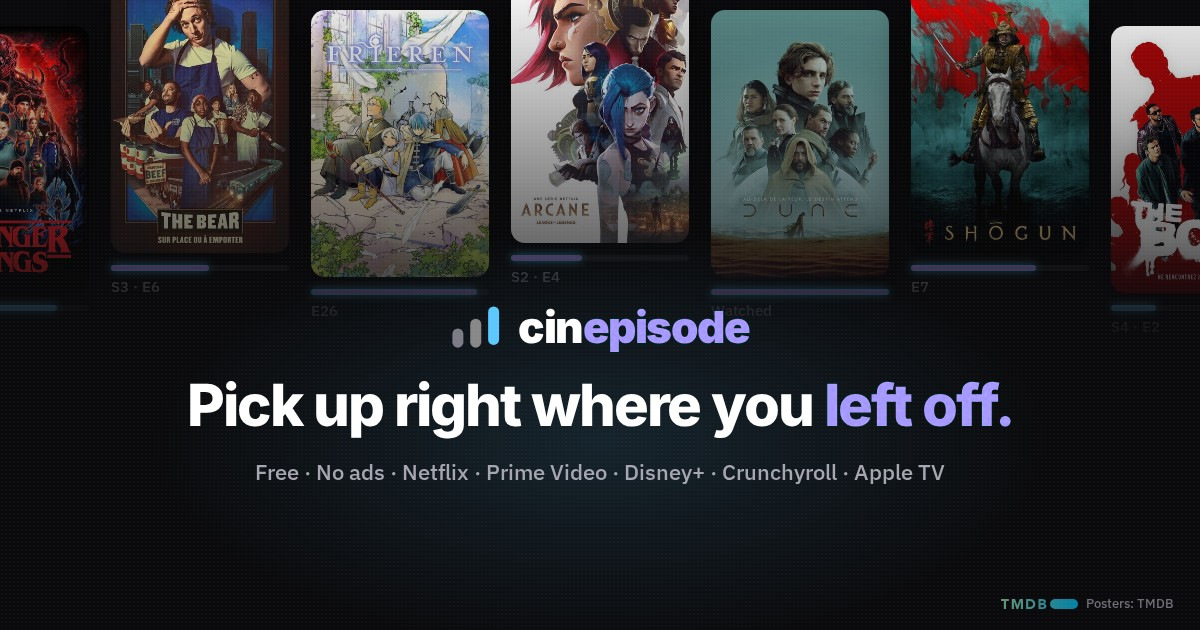
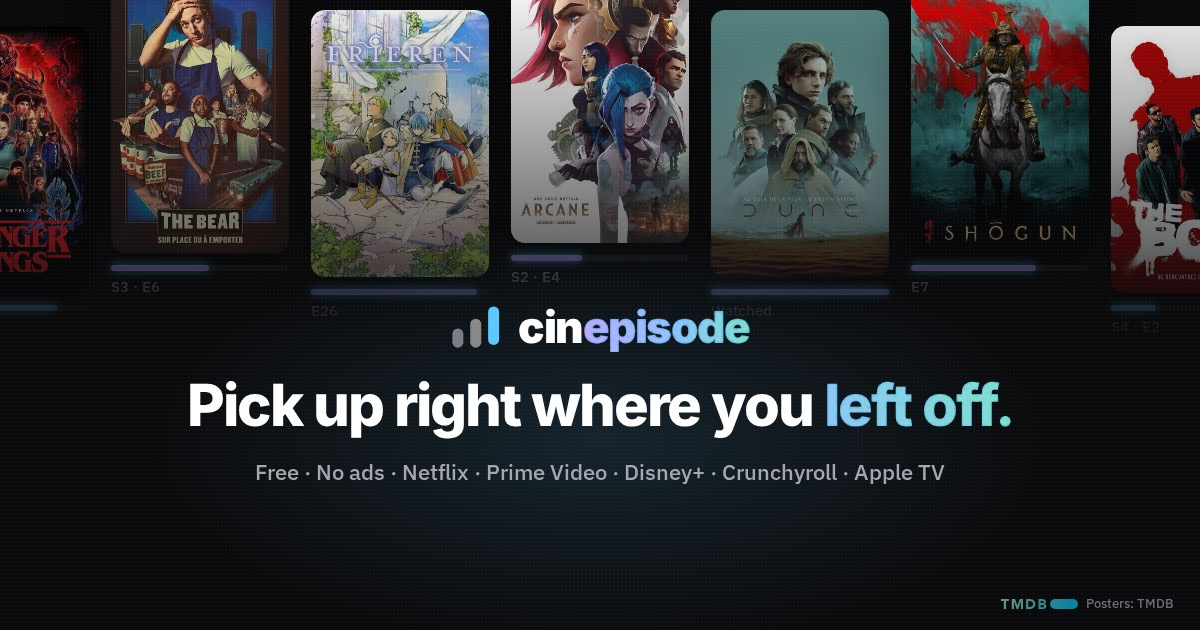
DA : dégradé P3 en couleur principale, accent-flat en 3 teintes très présent
- brand.config.json : accentMid/accentEnd (+ thème clair), hiérarchie principale / accent / secondary
- --accent-grad généré (app, extension, pages légales, pages serveur) ; logo « episode », mots d'accent de la landing et surtitres en dégradé lavande → ciel → menthe
- états actifs (segments, pastilles du héros, sélecteurs) sur --p3-grad
- image d'aperçu de lien : « episode » et fin du titre en dégradé accent-flat

Claude-Session: https://claude.ai/code/session_01F546xzsADfis5eoSZZMgFr

Changed region(s): [[0.6783, 0.6032, 0.8633, 0.6937], [0.4933, 0.4825, 0.6475, 0.5429]]

diff --git a/css/app.css b/css/app.css
@@ -16,7 +16,7 @@
      (--p3-grad) et au mot « episode » du logo (--accent-flat, teinte claire de la même famille —
      les arrêts foncés du dégradé tomberaient sous 4.5:1 comme texte plat sur de l'OLED pur) */
   /* Couleurs de marque : générées depuis brand.config.json (node scripts/build-brand.mjs) */
-  /*brand:css*/--bg:#000000;--accent:#b9aeff;--accent-rgb:185,174,255;--accent-hover:#cdc5ff;--accent-flat:var(--accent);--on-accent:#06070a;--accent2:#5cc8ff;--accent2-rgb:92,200,255;--accent2-hover:#7ad4ff;--grad-rgb:47,143,209;--p3-grad:linear-gradient(135deg,#5b4fe0,#2f8fd1 55%,#1fb8a3);--accent-dim:rgba(var(--accent-rgb),0.12);--accent-dim2:rgba(var(--accent-rgb),0.35);/*/brand:css*/
+  /*brand:css*/--bg:#000000;--accent:#b9aeff;--accent-rgb:185,174,255;--accent-hover:#cdc5ff;--accent-flat:var(--accent);--on-accent:#06070a;--accent-mid:#8fc4ff;--accent-end:#7fe0cf;--accent-grad:linear-gradient(100deg,#b9aeff,#8fc4ff 55%,#7fe0cf);--accent2:#5cc8ff;--accent2-rgb:92,200,255;--accent2-hover:#7ad4ff;--grad-rgb:47,143,209;--p3-grad:linear-gradient(135deg,#5b4fe0,#2f8fd1 55%,#1fb8a3);--accent-dim:rgba(var(--accent-rgb),0.12);--accent-dim2:rgba(var(--accent-rgb),0.35);/*/brand:css*/
   --red:#e84b4b;--green:#4be87a;
   /* TRANSITIONS variées (#5) */
   --tr:0.16s ease;--tr-fast:0.08s ease;--tr-slow:0.28s cubic-bezier(.4,0,.2,1);--spring:cubic-bezier(.34,1.56,.64,1);
@@ -45,7 +45,7 @@
   --bg:#f5f6f8;--bg2:#ffffff;--bg3:#eef0f3;--bg4:#e3e6ec;--bg5:#d6dae1;
   --ink-rgb:20,21,26;
   --text:#14151a;--text2:#63656e;--text3:#6e6e78;
-  /*brand:css-light*/--accent:#4a3fd1;--accent-rgb:74,63,209;--accent-hover:#3b31b5;--accent-flat:var(--accent);--on-accent:#ffffff;--accent2:#1d79c9;--accent2-rgb:29,121,201;--accent2-hover:#1868ad;/*/brand:css-light*/
+  /*brand:css-light*/--accent:#4a3fd1;--accent-rgb:74,63,209;--accent-hover:#3b31b5;--accent-flat:var(--accent);--on-accent:#ffffff;--accent-mid:#1d79c9;--accent-end:#0e8f80;--accent-grad:linear-gradient(100deg,#4a3fd1,#1d79c9 55%,#0e8f80);--accent2:#1d79c9;--accent2-rgb:29,121,201;--accent2-hover:#1868ad;/*/brand:css-light*/
   --red:#d32f2f;--green:#2e7d32;
   --glass-panel-bg:rgba(255,255,255,.78);--glass-backdrop-bg:rgba(255,255,255,.69);
   --p3-glass:rgba(255,255,255,.72);
@@ -66,11 +66,9 @@ body{background:var(--bg);color:var(--text);font-family:'IBM Plex Sans',sans-ser
 .hdr-left{display:flex;align-items:center;gap:20px;justify-self:start;min-width:0}
 .hdr-right{display:flex;align-items:center;justify-self:end;gap:10px}
 .logo{font-family:'Inter',sans-serif;font-size:22px;font-weight:900;letter-spacing:-.5px;color:var(--text);white-space:nowrap;display:flex;align-items:center;gap:8px}
-.logo em{color:var(--accent-flat);font-style:normal;animation:logoHueDrift 18s ease-in-out infinite alternate}
-@keyframes logoHueDrift{0%{color:#b9aeff}50%{color:#8fc4ff}100%{color:#7fe0cf}}
+.logo em{font-style:normal;background:var(--accent-grad);background-size:200% 100%;-webkit-background-clip:text;background-clip:text;color:transparent;-webkit-text-fill-color:transparent;animation:logoGradDrift 14s ease-in-out infinite alternate}
+@keyframes logoGradDrift{from{background-position:0% 0}to{background-position:100% 0}}
 @media (prefers-reduced-motion:reduce){.logo em{animation:none}}
-/* Thème clair : la dérive de teinte part d'un lavande pâle illisible sur fond clair — on garde l'accent du thème */
-:root[data-theme="light"] .logo em{animation:none;color:var(--accent-flat)}
 .logo-mark{width:22px;height:22px;flex:none}
 .hstats{display:flex;margin-left:auto;align-items:center}
 .pill{font-size:12px;color:var(--text2);background:var(--bg3);border:1px solid var(--border);padding:3px 10px;border-radius:20px}
@@ -794,7 +792,7 @@ a.gd-link{text-decoration:none;display:inline-flex;align-items:center}
 .btn-trailer svg{width:13px;height:13px}.btn-trailer:hover{background:rgba(255,80,80,.25)}
 .s-sel{display:flex;gap:5px;flex-wrap:wrap;margin-bottom:16px}
 .s-btn{font-size:11px;padding:5px 12px;border-radius:7px;background:var(--bg3);border:1px solid var(--border);color:var(--text2);cursor:pointer;transition:var(--tr);font-family:'IBM Plex Mono',monospace}
-.s-btn:hover{color:var(--text);border-color:var(--border2)}.s-btn.on{background:var(--accent);color:#000;border-color:var(--accent);font-weight:600}
+.s-btn:hover{color:var(--text);border-color:var(--border2)}.s-btn.on{background:var(--p3-grad);color:#fff;border-color:transparent;font-weight:600}
 .plex-nep{background:var(--accent-dim);border:1px solid var(--accent-dim2);border-radius:8px;padding:8px 12px;font-size:12px;color:var(--text);margin-bottom:14px;display:none}
 .plex-nep.on{display:block}.plex-nep b{color:var(--accent)}
 .plex-overview{font-size:13px;color:var(--text2);line-height:1.7;margin-bottom:18px}
@@ -1008,7 +1006,7 @@ body.glow-off .card::before,body.glow-off .ec-card::before,body.glow-off .dr-car
 .hero-dots{position:absolute;right:48px;bottom:34px;z-index:2;display:flex;gap:6px}
 .hero-dot{width:7px;height:7px;border-radius:4px;border:none;background:rgba(var(--ink-rgb),.3);cursor:pointer;padding:0;transition:width var(--tr-slow),background var(--tr-slow)}
 .hero-dot:hover{background:rgba(var(--ink-rgb),.55)}
-.hero-dot.on{width:20px;background:var(--accent)}
+.hero-dot.on{width:20px;background:var(--p3-grad)}
 @media (max-width:768px){.hero-dots{right:20px;bottom:20px}}
 .hero-btn{padding:12px 20px;border-radius:14px;font-size:13px;font-weight:700;border:none;cursor:pointer;color:var(--text);font-family:'IBM Plex Sans',sans-serif;display:inline-flex;align-items:center;gap:7px;transition:var(--tr-slow)}
 .hero-btn svg{width:14px;height:14px}
@@ -1815,7 +1813,7 @@ html.pair-open #toastWrap{display:none}
 .p3-pop{position:absolute;top:52px;right:0;width:320px;z-index:300;padding:10px;border-radius:20px;background:rgba(var(--surface-rgb),.92);border:1px solid rgba(var(--ink-rgb),.1);backdrop-filter:blur(30px);-webkit-backdrop-filter:blur(30px);box-shadow:0 30px 80px rgba(0,0,0,.6);animation:p3Pop .35s var(--p3-spring)}
 .p3-pop[hidden]{display:none}@keyframes p3Pop{from{opacity:0;transform:translateY(-8px) scale(.97)}}
 .p3-pop-h{display:flex;align-items:center;justify-content:space-between;gap:8px;padding:6px 8px 10px}
-.p3-pop-h>span{font:700 12px 'Inter',sans-serif;letter-spacing:.1em;text-transform:uppercase;color:var(--accent)}
+.p3-pop-h>span{font:700 12px 'Inter',sans-serif;letter-spacing:.1em;text-transform:uppercase;background:var(--accent-grad);background-size:200% 100%;-webkit-background-clip:text;background-clip:text;color:transparent;-webkit-text-fill-color:transparent}
 .p3-pop-readall{font:650 11.5px 'Inter',sans-serif;color:var(--text2);background:none;border:0;cursor:pointer;padding:3px 6px;border-radius:7px;transition:color .2s,background .2s;white-space:nowrap}
 .p3-pop-readall:hover{color:var(--text);background:rgba(var(--ink-rgb),.07)}
 .p3-pop-r{display:flex;align-items:center;gap:2px;width:100%}
@@ -2395,7 +2393,7 @@ button.fr-row:hover{background:rgba(var(--ink-rgb),.08);transform:translateX(2px
 .wt-filters{display:grid;gap:8px;margin:0 0 4px}
 .wt-seg{display:flex;gap:4px;padding:4px;border-radius:999px;background:rgba(var(--ink-rgb),.05)}
 .wt-seg button{flex:1;padding:8px 6px;border:0;border-radius:999px;background:transparent;color:rgba(var(--ink-rgb),.7);font:600 13px 'Inter',sans-serif;cursor:pointer;transition:background .2s,color .2s}
-.wt-seg button:hover{color:var(--text)}.wt-seg button.on{background:var(--accent);color:var(--on-accent)}
+.wt-seg button:hover{color:var(--text)}.wt-seg button.on{background:var(--p3-grad);color:#fff}
 .wt-count{margin:2px 0 12px;font-family:'IBM Plex Mono',monospace;font-size:12px}
 .wt-stage{position:relative;height:420px;display:grid;place-items:center}
 .wt-under{position:absolute;width:250px;height:380px;border-radius:20px;background:rgba(var(--ink-rgb),.05);transform:rotate(-5deg) translateX(-14px)}

diff --git a/extension/popup.css b/extension/popup.css
@@ -10,7 +10,7 @@
 @font-face{font-family:'IBM Plex Mono';font-style:normal;font-display:swap;font-weight:400;src:url(/fonts/ibm-plex-mono-latin-400-normal.woff2) format('woff2')}
 @font-face{font-family:'IBM Plex Mono';font-style:normal;font-display:swap;font-weight:500;src:url(/fonts/ibm-plex-mono-latin-500-normal.woff2) format('woff2')}
 :root{--bg:#0a0a0c;--bg3:#17171b;--bg4:#1e1e23;--bg5:#27272e;--border:rgba(255,255,255,.07);--border2:rgba(255,255,255,.14);
---text:#f0f0f0;--text2:#9a9aa5;--text3:#7c7c87;/*brand:css*/--accent:#b9aeff;--accent-rgb:185,174,255;--accent-hover:#cdc5ff;--accent-flat:var(--accent);--on-accent:#06070a;--accent2:#5cc8ff;--accent2-rgb:92,200,255;--accent2-hover:#7ad4ff;--grad-rgb:47,143,209;--p3-grad:linear-gradient(135deg,#5b4fe0,#2f8fd1 55%,#1fb8a3);/*/brand:css*/--green:#4be87a;--red:#e84b4b;--warn:#f0b54b;
+--text:#f0f0f0;--text2:#9a9aa5;--text3:#7c7c87;/*brand:css*/--accent:#b9aeff;--accent-rgb:185,174,255;--accent-hover:#cdc5ff;--accent-flat:var(--accent);--on-accent:#06070a;--accent-mid:#8fc4ff;--accent-end:#7fe0cf;--accent-grad:linear-gradient(100deg,#b9aeff,#8fc4ff 55%,#7fe0cf);--accent2:#5cc8ff;--accent2-rgb:92,200,255;--accent2-hover:#7ad4ff;--grad-rgb:47,143,209;--p3-grad:linear-gradient(135deg,#5b4fe0,#2f8fd1 55%,#1fb8a3);/*/brand:css*/--green:#4be87a;--red:#e84b4b;--warn:#f0b54b;
 --spring:cubic-bezier(.34,1.56,.64,1);--tr:.16s ease;color-scheme:dark}
 *{box-sizing:border-box}
 [hidden]{display:none!important}
@@ -35,7 +35,7 @@ button{font:inherit;color:inherit}
 /* En-tête */
 .hd{display:flex;align-items:center;gap:8px;padding:14px 16px 10px}
 .logo{display:flex;align-items:center;gap:7px;font-family:'Inter',sans-serif;font-weight:900;font-size:17px;letter-spacing:-.4px;color:var(--text);text-decoration:none}
-.logo svg{width:22px;height:22px}.logo em{color:var(--accent);font-style:normal}
+.logo svg{width:22px;height:22px}.logo em{font-style:normal;background:var(--accent-grad);background-size:200% 100%;-webkit-background-clip:text;background-clip:text;color:transparent;-webkit-text-fill-color:transparent}
 .conn{margin-left:auto;display:flex;align-items:center;gap:6px;font-size:11px;color:var(--text2);background:var(--bg3);border:1px solid var(--border);padding:3px 9px;border-radius:20px;white-space:nowrap}
 .dot{width:7px;height:7px;border-radius:50%;background:#4a4a54;flex-shrink:0}
 .dot.ok{background:var(--green);box-shadow:0 0 0 3px rgba(75,232,122,.15)}

diff --git a/landing/landing.css b/landing/landing.css
@@ -49,9 +49,9 @@ html.lp-guest{scroll-behavior:smooth;scroll-padding-top:84px}
 .lp-eyebrow{display:inline-flex;align-items:center;gap:10px;padding:7px 16px 7px 12px;border-radius:999px;border:1px solid var(--lp-line2);background:rgba(255,255,255,.035);color:#cfd0d6;font-size:14px;font-weight:500;letter-spacing:.01em}
 .lp-eyebrow-dot{width:8px;height:8px;border-radius:50%;background:var(--accent);box-shadow:0 0 0 4px rgba(var(--accent-rgb),.18),0 0 14px rgba(var(--accent-rgb),.8)}
 .lp-h1{font-family:'Inter',sans-serif;font-weight:800;font-size:clamp(2.55rem,1.25rem + 5.4vw,5.4rem);line-height:1.02;letter-spacing:-.045em;margin:26px auto 0;max-width:13ch;text-wrap:balance}
-.lp-grad{background:linear-gradient(100deg,var(--accent-hover) 0%,var(--accent) 45%,var(--accent2) 100%);-webkit-background-clip:text;background-clip:text;color:transparent;-webkit-box-decoration-break:clone;box-decoration-break:clone}
+.lp-grad{background:var(--accent-grad);-webkit-background-clip:text;background-clip:text;color:transparent;-webkit-box-decoration-break:clone;box-decoration-break:clone}
 .lp-lead{font-size:clamp(1.0625rem,.98rem + .45vw,1.3rem);line-height:1.6;color:var(--lp-muted);max-width:40rem;margin:26px auto 0;text-wrap:pretty}
-.lp-kicker{display:flex;align-items:center;flex-wrap:wrap;gap:10px;font-family:'Inter',sans-serif;font-size:13px;font-weight:700;letter-spacing:.12em;text-transform:uppercase;color:var(--accent);margin:0 0 16px}
+.lp-kicker{display:flex;align-items:center;flex-wrap:wrap;gap:10px;font-family:'Inter',sans-serif;font-size:13px;font-weight:700;letter-spacing:.12em;text-transform:uppercase;background:var(--accent-grad);background-size:200% 100%;-webkit-background-clip:text;background-clip:text;color:transparent;-webkit-text-fill-color:transparent;margin:0 0 16px}
 .lp-h2{font-family:'Inter',sans-serif;font-weight:800;font-size:clamp(2rem,1.25rem + 2.9vw,3.4rem);line-height:1.06;letter-spacing:-.035em;text-wrap:balance}
 .lp-h3{font-family:'Inter',sans-serif;font-weight:750;font-size:clamp(1.6rem,1.15rem + 1.7vw,2.4rem);line-height:1.1;letter-spacing:-.03em;text-wrap:balance}
 .lp-h4{font-family:'Inter',sans-serif;font-weight:700;font-size:18px;line-height:1.3;letter-spacing:-.015em;color:var(--lp-text)}

diff --git a/api/share.js b/api/share.js
@@ -42,7 +42,7 @@ const CSS = `:root{--bg:#0a0a0c;--t:#f5f5f7;--t2:#a1a1aa;--t3:#6b6b75;--a:${BT.a
 a{color:inherit;text-decoration:none}
 .amb{position:fixed;inset:0;pointer-events:none;background:radial-gradient(900px 500px at 15% -10%,rgba(${BT.accentRgb},.16),transparent 60%),radial-gradient(800px 600px at 100% 30%,rgba(120,80,255,.10),transparent 60%)}
 .top{position:sticky;top:0;z-index:5;display:flex;align-items:center;justify-content:space-between;padding:14px 40px;background:rgba(10,10,12,.72);backdrop-filter:blur(20px);-webkit-backdrop-filter:blur(20px);border-bottom:1px solid rgba(255,255,255,.05)}
-.logo{display:flex;align-items:center;font:800 19px Inter,sans-serif;letter-spacing:-.02em}.logo i{width:24px;height:24px;margin-right:9px;border-radius:7px;background:var(--grad);box-shadow:0 4px 14px rgba(${BT.accentRgb},.35)}.logo em{font-style:normal;color:var(--a)}
+.logo{display:flex;align-items:center;font:800 19px Inter,sans-serif;letter-spacing:-.02em}.logo i{width:24px;height:24px;margin-right:9px;border-radius:7px;background:var(--grad);box-shadow:0 4px 14px rgba(${BT.accentRgb},.35)}.logo em{font-style:normal;color:var(--a);background:${BT.accentGrad};-webkit-background-clip:text;background-clip:text;-webkit-text-fill-color:transparent}
 .btn{display:inline-flex;align-items:center;justify-content:center;gap:8px;padding:10px 18px;border-radius:999px;font-weight:650;font-size:13.5px;background:var(--grad);color:#fff;box-shadow:0 8px 24px rgba(${BT.gradRgb},.35)}
 main{position:relative;max-width:1240px;margin:0 auto;padding:40px 40px 20px}
 .pub{display:flex;gap:22px;align-items:center;margin-bottom:26px}.av{flex-shrink:0;width:76px;height:76px;border-radius:50%;background:var(--grad);display:grid;place-items:center;font:850 30px Inter,sans-serif;box-shadow:0 10px 30px rgba(${BT.gradRgb},.4)}

diff --git a/api/invite.js b/api/invite.js
@@ -45,7 +45,7 @@ async function fetchInvite(handle, code, fetchImpl) {
 const CSS = `:root{--bg:#0a0a0c;--t:#f0f0f0;--t2:#a1a1aa;--a:${BT.accent}}*{box-sizing:border-box}html,body{margin:0;background:var(--bg);color:var(--t);font-family:'IBM Plex Sans',Inter,system-ui,sans-serif;min-height:100%}
 .amb{position:fixed;inset:-20%;z-index:-1;background:radial-gradient(40% 35% at 30% 30%,rgba(${BT.accentRgb},.22),transparent 70%),radial-gradient(35% 30% at 75% 70%,rgba(${BT.gradRgb},.18),transparent 70%);filter:blur(40px);animation:amb 18s ease-in-out infinite alternate}
 @keyframes amb{to{transform:translate(3%,-2%) rotate(6deg)}}
-.top{display:flex;align-items:center;justify-content:space-between;padding:18px 28px}.logo{color:var(--t);text-decoration:none;font:900 19px Inter,sans-serif;letter-spacing:-.02em}.logo em{font-style:normal;color:var(--a)}
+.top{display:flex;align-items:center;justify-content:space-between;padding:18px 28px}.logo{color:var(--t);text-decoration:none;font:900 19px Inter,sans-serif;letter-spacing:-.02em}.logo em{font-style:normal;color:var(--a);background:${BT.accentGrad};-webkit-background-clip:text;background-clip:text;-webkit-text-fill-color:transparent}
 .btn{display:inline-flex;align-items:center;justify-content:center;gap:8px;padding:12px 22px;border-radius:999px;background:var(--a);color:${BT.onAccent};font:800 15px Inter,sans-serif;text-decoration:none;transition:background .2s,transform .3s cubic-bezier(.34,1.4,.5,1)}.btn:hover{background:${BT.accentHover};transform:translateY(-2px)}
 .btn.g{background:rgba(255,255,255,.07);color:var(--t);border:1px solid rgba(255,255,255,.12)}
 main{min-height:calc(100vh - 140px);display:grid;grid-template-columns:minmax(0,1fr);place-items:center;padding:20px}

diff --git a/branding/legal/_layout.html b/branding/legal/_layout.html
@@ -18,7 +18,7 @@ body{margin:0;background:[[colors.bg]];color:[[colors.text]];font-family:[[fonts
 .wrap{max-width:760px;margin:0 auto;padding:28px 22px 60px}
 .top{display:flex;align-items:center;justify-content:space-between;gap:16px;margin-bottom:34px}
 .logo{display:flex;align-items:center;gap:9px;font-family:[[fonts.display]];font-weight:900;font-size:21px;letter-spacing:-.5px;color:#fff;text-decoration:none}
-.logo em{color:[[colors.accent]];font-style:normal}
+.logo em{color:[[colors.accent]];font-style:normal;background:linear-gradient(100deg,[[colors.accent]],[[colors.accentMid]] 55%,[[colors.accentEnd]]);-webkit-background-clip:text;background-clip:text;-webkit-text-fill-color:transparent}
 .logo svg{width:22px;height:22px}
 .back{font-size:13px;color:[[colors.textMuted]];text-decoration:none;border:1px solid [[colors.border]];border-radius:10px;padding:7px 12px}
 .back:hover{color:#fff}

diff --git a/conditions.html b/conditions.html
@@ -23,7 +23,7 @@ body{margin:0;background:#000000;color:#f0f0f0;font-family:'IBM Plex Sans', 'Int
 .wrap{max-width:760px;margin:0 auto;padding:28px 22px 60px}
 .top{display:flex;align-items:center;justify-content:space-between;gap:16px;margin-bottom:34px}
 .logo{display:flex;align-items:center;gap:9px;font-family:'Inter', -apple-system, BlinkMacSystemFont, 'Segoe UI', Roboto, Helvetica, Arial, sans-serif;font-weight:900;font-size:21px;letter-spacing:-.5px;color:#fff;text-decoration:none}
-.logo em{color:#b9aeff;font-style:normal}
+.logo em{color:#b9aeff;font-style:normal;background:linear-gradient(100deg,#b9aeff,#8fc4ff 55%,#7fe0cf);-webkit-background-clip:text;background-clip:text;-webkit-text-fill-color:transparent}
 .logo svg{width:22px;height:22px}
 .back{font-size:13px;color:#9a9aa3;text-decoration:none;border:1px solid #26262c;border-radius:10px;padding:7px 12px}
 .back:hover{color:#fff}

diff --git a/confidentialite.html b/confidentialite.html
@@ -23,7 +23,7 @@ body{margin:0;background:#000000;color:#f0f0f0;font-family:'IBM Plex Sans', 'Int
 .wrap{max-width:760px;margin:0 auto;padding:28px 22px 60px}
 .top{display:flex;align-items:center;justify-content:space-between;gap:16px;margin-bottom:34px}
 .logo{display:flex;align-items:center;gap:9px;font-family:'Inter', -apple-system, BlinkMacSystemFont, 'Segoe UI', Roboto, Helvetica, Arial, sans-serif;font-weight:900;font-size:21px;letter-spacing:-.5px;color:#fff;text-decoration:none}
-.logo em{color:#b9aeff;font-style:normal}
+.logo em{color:#b9aeff;font-style:normal;background:linear-gradient(100deg,#b9aeff,#8fc4ff 55%,#7fe0cf);-webkit-background-clip:text;background-clip:text;-webkit-text-fill-color:transparent}
 .logo svg{width:22px;height:22px}
 .back{font-size:13px;color:#9a9aa3;text-decoration:none;border:1px solid #26262c;border-radius:10px;padding:7px 12px}
 .back:hover{color:#fff}

diff --git a/privacy.html b/privacy.html
@@ -23,7 +23,7 @@ body{margin:0;background:#000000;color:#f0f0f0;font-family:'IBM Plex Sans', 'Int
 .wrap{max-width:760px;margin:0 auto;padding:28px 22px 60px}
 .top{display:flex;align-items:center;justify-content:space-between;gap:16px;margin-bottom:34px}
 .logo{display:flex;align-items:center;gap:9px;font-family:'Inter', -apple-system, BlinkMacSystemFont, 'Segoe UI', Roboto, Helvetica, Arial, sans-serif;font-weight:900;font-size:21px;letter-spacing:-.5px;color:#fff;text-decoration:none}
-.logo em{color:#b9aeff;font-style:normal}
+.logo em{color:#b9aeff;font-style:normal;background:linear-gradient(100deg,#b9aeff,#8fc4ff 55%,#7fe0cf);-webkit-background-clip:text;background-clip:text;-webkit-text-fill-color:transparent}
 .logo svg{width:22px;height:22px}
 .back{font-size:13px;color:#9a9aa3;text-decoration:none;border:1px solid #26262c;border-radius:10px;padding:7px 12px}
 .back:hover{color:#fff}

diff --git a/terms.html b/terms.html
@@ -23,7 +23,7 @@ body{margin:0;background:#000000;color:#f0f0f0;font-family:'IBM Plex Sans', 'Int
 .wrap{max-width:760px;margin:0 auto;padding:28px 22px 60px}
 .top{display:flex;align-items:center;justify-content:space-between;gap:16px;margin-bottom:34px}
 .logo{display:flex;align-items:center;gap:9px;font-family:'Inter', -apple-system, BlinkMacSystemFont, 'Segoe UI', Roboto, Helvetica, Arial, sans-serif;font-weight:900;font-size:21px;letter-spacing:-.5px;color:#fff;text-decoration:none}
-.logo em{color:#b9aeff;font-style:normal}
+.logo em{color:#b9aeff;font-style:normal;background:linear-gradient(100deg,#b9aeff,#8fc4ff 55%,#7fe0cf);-webkit-background-clip:text;background-clip:text;-webkit-text-fill-color:transparent}
 .logo svg{width:22px;height:22px}
 .back{font-size:13px;color:#9a9aa3;text-decoration:none;border:1px solid #26262c;border-radius:10px;padding:7px 12px}
 .back:hover{color:#fff}

diff --git a/COORDINATION.md b/COORDINATION.md
@@ -63,7 +63,7 @@ Tableau exhaustif, la PR la plus récente en haut. Rempli rétroactivement le 20
 
 | PR | Titre | Auteur | Branche | Statut | Résumé + fichiers principaux | Migration SQL |
 |---|---|---|---|---|---|---|
-| #132 | DA unifiée : accent `#b9aeff` + dégradé P3 + secondary `#5cc8ff`, propagée partout depuis `brand.config.json` | Claude | `claude/sleepy-hawking-mnfpvg` | **en cours de revue (PR ouverte)** | Décision de Pierre (07/11) : 2 couleurs principales = `accent-flat` `#b9aeff` et dégradé P3, suivies de `#5cc8ff`, le reste tertiaire. `brand.config.json` devient la source unique (`secondary`, `colorsLight`), `build-brand.mjs` génère les variables de l'app (sombre + clair), de l'extension et `api/_lib/brand-tokens.json` (partage, invitation, OG, digest). Landing, emails (Supabase + Resend), pages légales, aperçu de lien (`og-share-v3-*`) alignés ; test anti-dérive dans `tests/brand.test.js`. Fichiers : `brand.config.json`, `scripts/build-brand.mjs`, `css/app.css`, `landing/landing.css`, `extension/popup.css`, `api/*.js`, `api/og.mjs`, `og/`, README. | Non |
+| #132 | DA unifiée : accent `#b9aeff` + dégradé P3 + secondary `#5cc8ff`, propagée partout depuis `brand.config.json` | Claude | `claude/sleepy-hawking-mnfpvg` | **en cours de revue (PR ouverte)** | Décision de Pierre (07/11, revue le soir même) : couleur principale = dégradé P3 ; accent très présent = accent-flat en 3 teintes (`#b9aeff → #8fc4ff → #7fe0cf`, `--accent-grad` sur le logo et les mots mis en avant) ; puis `#5cc8ff` ; le reste tertiaire. `brand.config.json` devient la source unique (`secondary`, `colorsLight`), `build-brand.mjs` génère les variables de l'app (sombre + clair), de l'extension et `api/_lib/brand-tokens.json` (partage, invitation, OG, digest). Landing, emails (Supabase + Resend), pages légales, aperçu de lien (`og-share-v3-*`) alignés ; test anti-dérive dans `tests/brand.test.js`. Fichiers : `brand.config.json`, `scripts/build-brand.mjs`, `css/app.css`, `landing/landing.css`, `extension/popup.css`, `api/*.js`, `api/og.mjs`, `og/`, README. | Non |
 | #131 | Corrige le reset de mot de passe bloqué quand la double authentification est active | Claude | `claude/fix-mfa-password-reset` | **mergée le 07/11 (« merge 131 »)** | `401 insufficient_aal` : la session de récupération de mot de passe reste en aal1, Supabase refuse le changement de mot de passe si la double authentification est active (exige aal2). Nouvelle fonction `_authGoReset` qui vérifie le niveau AAL et redirige vers l'écran TOTP existant si besoin, avant de revenir vers le nouveau mot de passe. Fichiers : `js/20-account.js`, `js/37-mfa.js`, i18n FR/EN. | Non |
 | #130 | Digest : logo en image distante (Gmail n'affiche pas les data: URI) | Claude | `claude/digest-logo-gmail-fix` | **mergée le 07/11 (« merge 130 »)** | Le logo restait invisible après #129 : Gmail n'affiche pas les images `data:` URI dans un email reçu (vérifié en conditions réelles), contrairement aux images distantes classiques (les affiches TMDB du même email fonctionnaient). Emails app → image distante ; gabarits Supabase → pas d'image du tout (carré + initiale). Fichiers : `branding/emails/_layout.html`, `scripts/build-brand.mjs`, `supabase/templates/*.html`. | Non |
 | #129 | Digest : vrai logo (data URI) + contenu plus riche | Claude | `claude/digest-email-polish` | **ouverte le 07/11, en attente de revue de Pierre** | Retour de Pierre sur le premier envoi réel du digest #128 : logo placeholder jamais raccordé à la vraie icône (bug visible sur tous les emails, y compris les modèles Supabase, gabarit partagé) — corrigé en image intégrée (`data:` URI), pas une URL distante (interdite côté Supabase). Digest enrichi : compteur, badge S/E coloré, date lisible, séparateurs. Fichiers : `branding/emails/_layout.html`, `scripts/build-brand.mjs`, `api/notifications-digest.js`, `supabase/templates/*.html`. | Non |

diff --git a/README.md b/README.md
@@ -110,14 +110,18 @@ Tout ce qui identifie l'app est dans [`brand.config.json`](brand.config.json) : 
 (`contactEmail`, `senderEmail`, `senderName`), couleurs, chemins du logo et des icônes,
 polices, indexation (`indexable`), redirections de domaine (`domains`).
 
-**Règle DA (validée le 07/11)** : trois niveaux de couleur, tous dans `brand.config.json › colors`.
-1. `accent` `#b9aeff` : couleur d'identité plate (logo « episode », liens, états actifs, focus).
-2. Dégradé `accentGradStart/Mid/End` (`--p3-grad`) : CTA, barres de progression, interrupteurs actifs.
-3. `secondary` `#5cc8ff` (`--accent2`) : troisième couleur (3ᵉ barre du logo, accents d'info).
+**Règle DA (revue le 07/11)** : trois niveaux de couleur, tous dans `brand.config.json › colors`.
+1. **Couleur principale = dégradé P3** `accentGradStart/Mid/End` (`--p3-grad`, `#5b4fe0 → #2f8fd1 → #1fb8a3`) :
+   boutons principaux, barres de progression, interrupteurs, onglets et segments actifs.
+2. **Accent très présent = accent-flat** en trois teintes `accent` `#b9aeff` → `accentMid` `#8fc4ff` →
+   `accentEnd` `#7fe0cf` : `--accent` (plat : liens, focus, états doux) et `--accent-grad` (logo
+   « episode », mots mis en avant, surtitres).
+3. `secondary` `#5cc8ff` (`--accent2`) : troisième couleur (3ᵉ barre du logo).
 Tout le reste (rouge, vert, orange…) est tertiaire et sémantique. Le thème clair se règle dans
-`colorsLight`. **Ne jamais recopier un hex de marque à la main** : utiliser `var(--accent)`,
-`var(--accent2)`, `var(--p3-grad)` (app, landing, extension) ou `api/_lib/brand-tokens.json`
-(fonctions serveur). `tests/brand.test.js` échoue si une ancienne teinte réapparaît en dur.
+`colorsLight`. **Ne jamais recopier un hex de marque à la main** : utiliser `var(--p3-grad)`,
+`var(--accent)`, `var(--accent-grad)`, `var(--accent2)` (app, landing, extension) ou
+`api/_lib/brand-tokens.json` (fonctions serveur). `tests/brand.test.js` échoue si une ancienne
+teinte réapparaît en dur.
 
 Pour renommer l'app, changer de domaine, de couleurs ou de logo :
 
